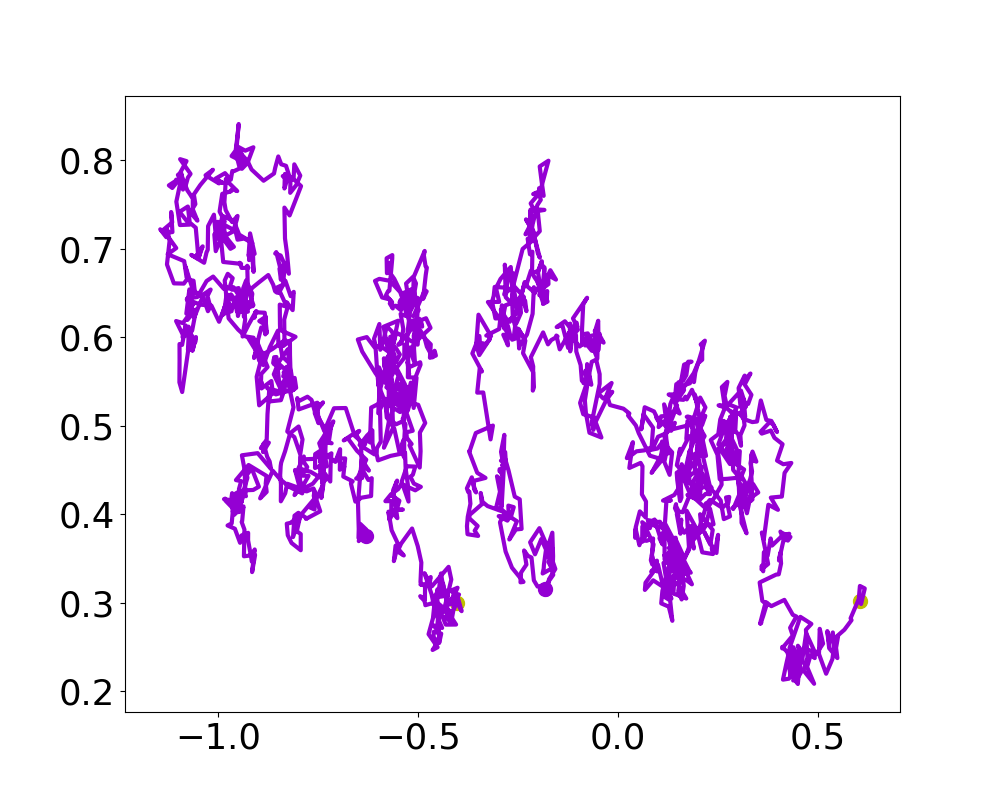
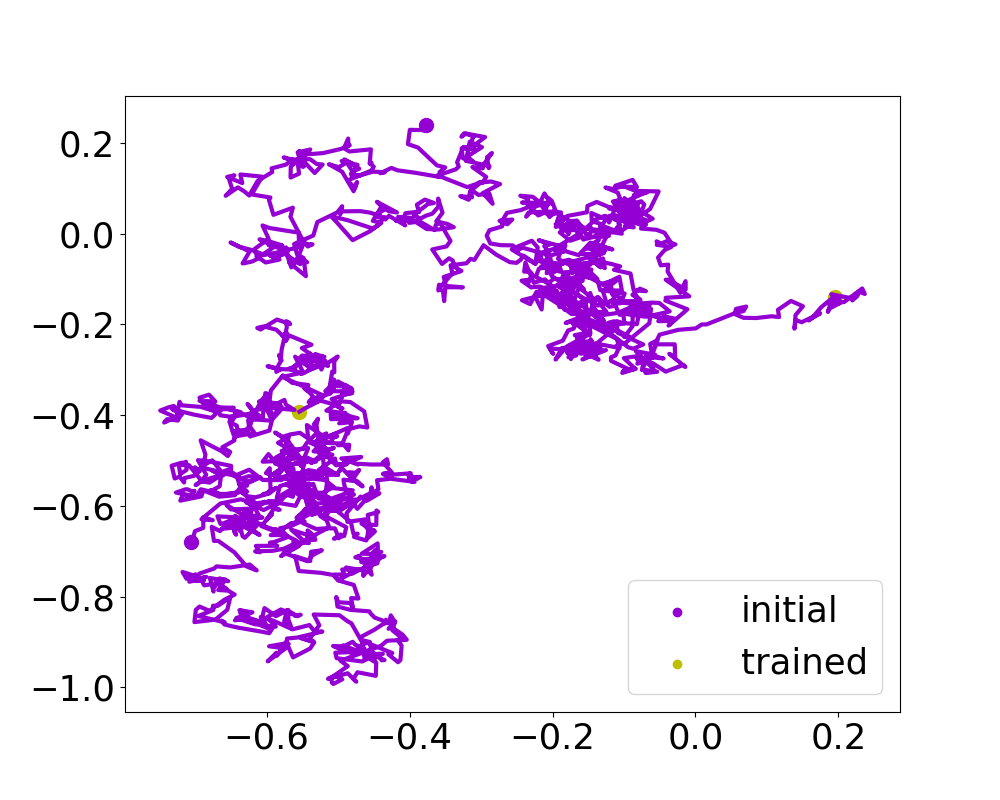
パラメータの軌跡プロットの実験追加

diff --git a/nn/k_parity_parameter.py b/nn/k_parity_parameter.py
@@ -138,6 +138,10 @@ for mfld_param in mfld_params:
     plt.plot(mfld_param['x'][-1], mfld_param['y'][-1], '.', markersize=20, color='y')
     plt.plot(mfld_param['x'], mfld_param['y'], color='darkviolet', linewidth=3)
 
+plt.scatter([], [], label = "initial", color = "darkviolet")
+plt.scatter([], [], label = "trained", color = "y")
+plt.legend()
+
 plt.savefig('/workspace/nn/results/mfld_parameters.png')
 
 # ntkの描画
@@ -149,5 +153,9 @@ for ntk_param in ntk_params:
     plt.plot(ntk_param['x'][0], ntk_param['y'][0], '.', markersize=20, color='darkviolet')
     plt.plot(ntk_param['x'][-1], ntk_param['y'][-1], '.', markersize=20, color='y')
     plt.plot(ntk_param['x'], ntk_param['y'], color='darkviolet', linewidth=3)
+
+plt.scatter([], [], label = "initial", color = "darkviolet")
+plt.scatter([], [], label = "trained", color = "y")
+plt.legend()
 
 plt.savefig('/workspace/nn/results/ntk_parameters.png')
